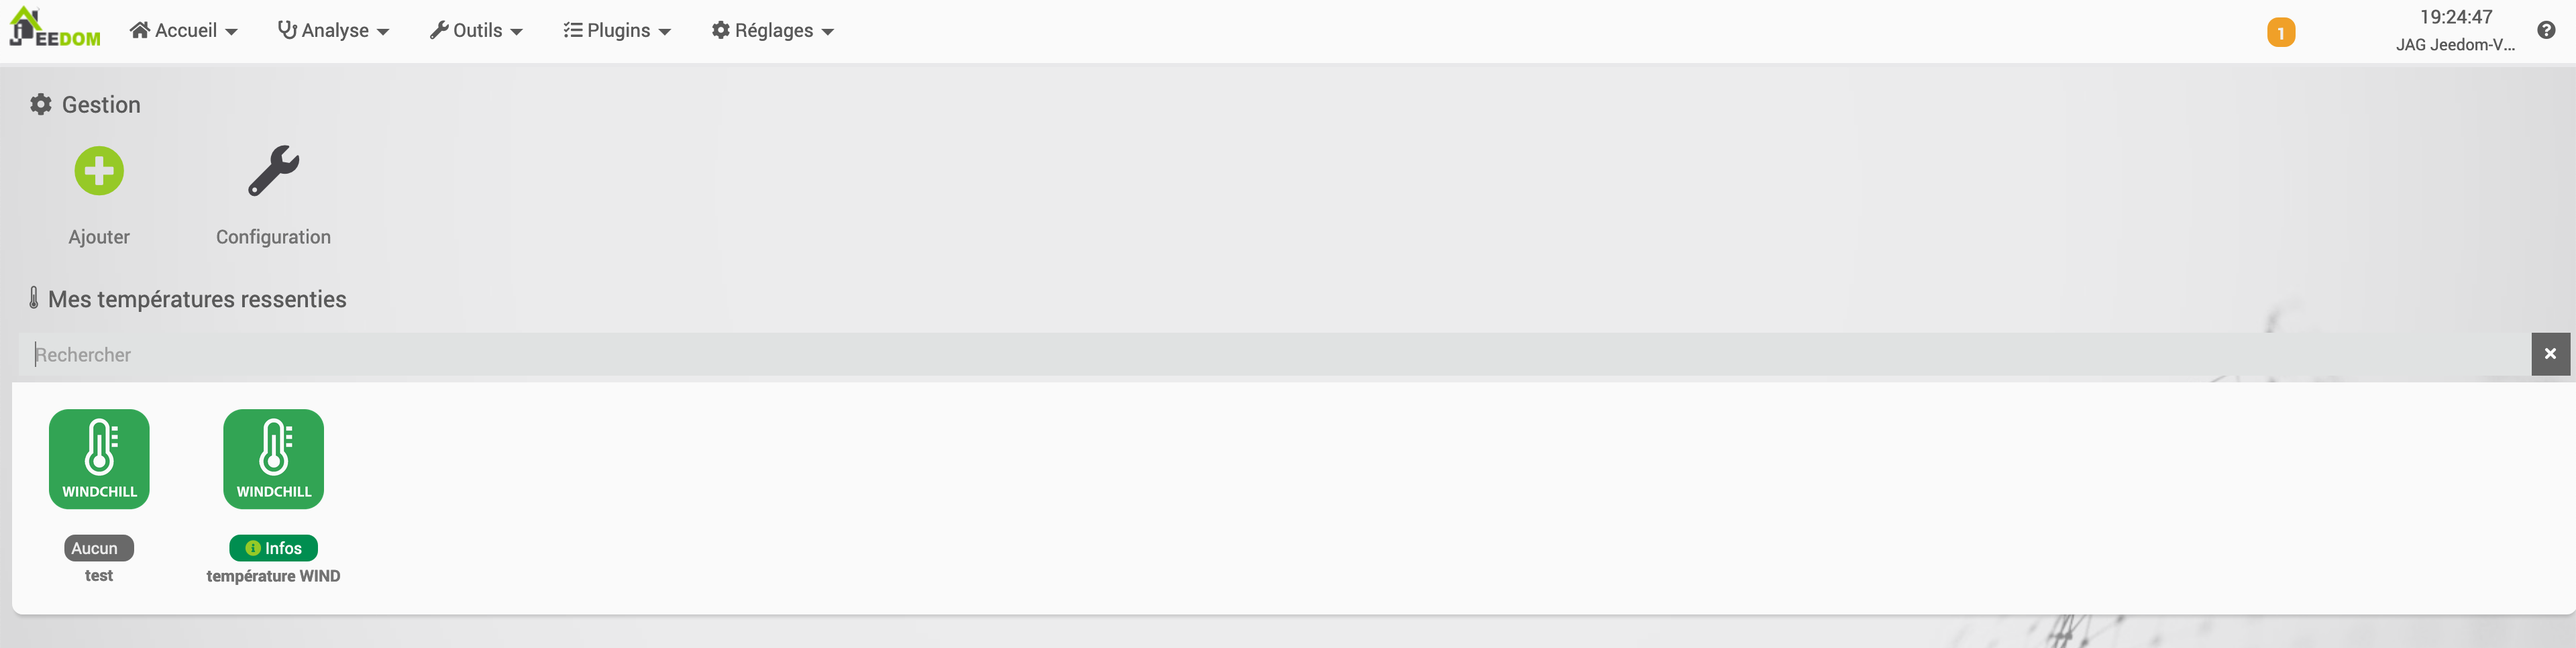
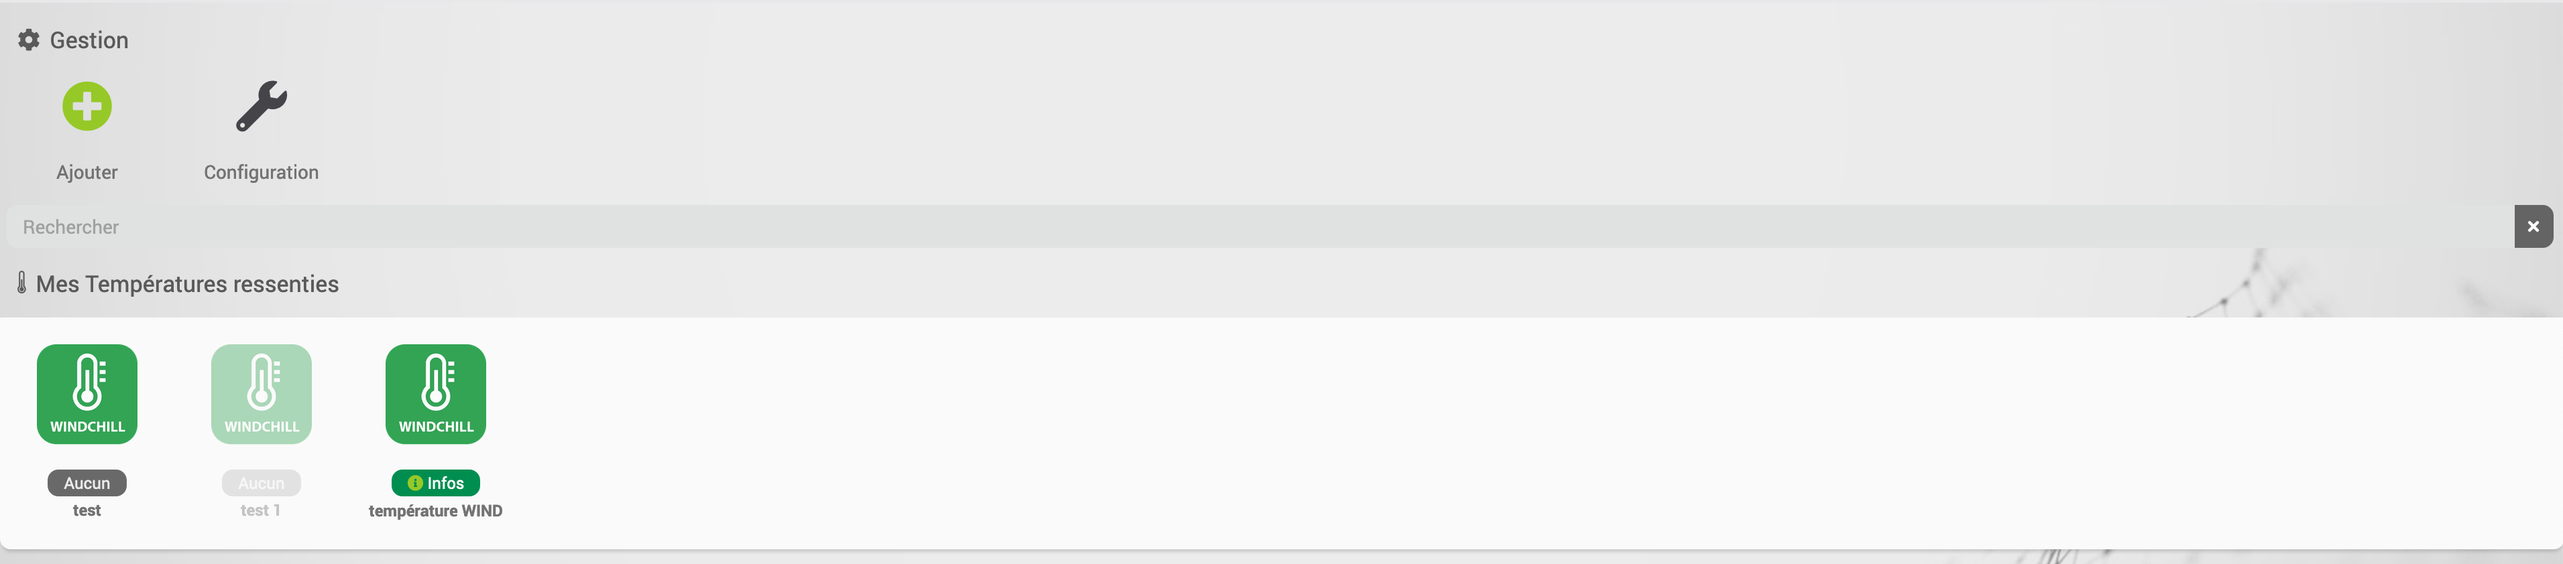
Amélioration Affichage

diff --git a/docs/fr_FR/index.md b/docs/fr_FR/index.md
@@ -22,12 +22,12 @@ Il est possible d'indiquer :
 
 ## Vue de la liste des équipements
 
-![exemple vue d'ensemble](../images/vue.png)
+![exemple vue d'ensemble](../images/temperature_screenshot1.png)
 
 ## Exemple de configuration
 
-![exemple équipement](../images/equipement.png)
-![exemple commandes](../images/commandes.png)
+![exemple équipement](../images/temperature_screenshot2.png)
+![exemple commandes](../images/temperature_screenshot3.png)
 
 # FAQ
 

diff --git a/docs/fr_FR/changelog.md b/docs/fr_FR/changelog.md
@@ -9,6 +9,11 @@ pluginId: temperature
 
 > **_Pour rappel_** s'il n'y a pas d'information sur la mise à jour, c'est que celle-ci concerne uniquement de la mise à jour de documentation, de traduction ou de corrections de bugs mineur.
 
+# Version 20201129
+
+- Amélioration de l'affichage, ajout info bulle sur les commandes
+- Amélioration mise à jour des commandes
+
 # Version 20201027
 
 - Amélioration Visu sur dashboard
